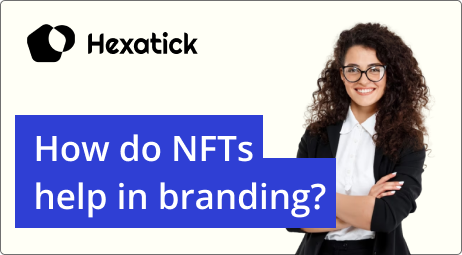
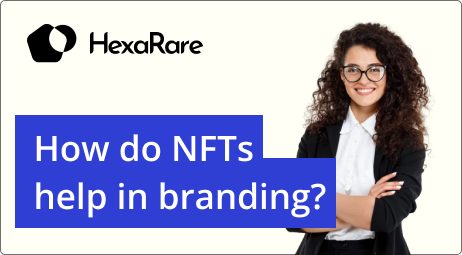
Rebranding Hexatick to Hexarare

Changed region(s): [[0.0606, 0.0824, 0.4545, 0.2471]]

diff --git a/src/components/Pages/UseCases/UseCase.jsx b/src/components/Pages/UseCases/UseCase.jsx
@@ -14,8 +14,6 @@ import BettingProof from "../../../images/Group B- Image 6.png";
 import MusicIntellectualProperty from "../../../images/GroupB-Image8.png";
 import MovieIntellectualProperty from "../../../images/GroupB-Image7.png";
 
-
-
 import { useEffect } from "react";
 
 const UseCase = () => {
@@ -359,7 +357,18 @@ const UseCase = () => {
           <div className="flex flex-col items-center justify-center space-y-5 max-sm:mt-[1rem] max-sm:text-center">
             <h2 className="text-3xl font-body">Movie Intellectual Property</h2>
             <p className="text-md font-poppins max-sm:text-sm">
-            NFTs have the potential to revolutionize the movie industry by providing a new way for artists and platforms to monetize and protect their intellectual property. NFTs can be issued for movie IP, such as limited edition clips, posters, or even a unique version of a film, giving fans an exclusive digital asset to collect and trade.  Using blockchain technology,ensures that the movie IP remains secure and is not subject to piracy or copyright infringement. Furthermore, artists and platforms can receive a share of profits from subsequent sales or licensing of the NFTs, creating new revenue streams and increasing the overall value of the movie IP. Overall NFTs offer a powerful tool for artists and platforms in the movie industry.
+              NFTs have the potential to revolutionize the movie industry by
+              providing a new way for artists and platforms to monetize and
+              protect their intellectual property. NFTs can be issued for movie
+              IP, such as limited edition clips, posters, or even a unique
+              version of a film, giving fans an exclusive digital asset to
+              collect and trade. Using blockchain technology,ensures that the
+              movie IP remains secure and is not subject to piracy or copyright
+              infringement. Furthermore, artists and platforms can receive a
+              share of profits from subsequent sales or licensing of the NFTs,
+              creating new revenue streams and increasing the overall value of
+              the movie IP. Overall NFTs offer a powerful tool for artists and
+              platforms in the movie industry.
             </p>
           </div>
 

diff --git a/src/components/Home/HomeFaq.jsx b/src/components/Home/HomeFaq.jsx
@@ -10,14 +10,14 @@ const HomeFaq = () => {
         <p className="font-inter">Reach out to our team at</p>
         <p className="font-inter underline underline-offset-4 max-sm:flex flex-col">
           {" "}
-          support@hexatick.com
+          support@hexarare.com
         </p>
       </div>
 
       {/* FAQ SECTION */}
       <div className="mt-14 flex flex-col items-center ">
         <FaqBox
-          question="What does your No-Code NFT API platform like Hexatick do?"
+          question="What does your No-Code NFT API platform like Hexarare do?"
           answer="Our platform allows you to easily create and manage your own NFTs without any coding experience. You can mint new tokens, manage ownership and transfer them securely on the blockchain with simple REST APIs that can be implemented with minimal development and knowledge."
         />
         <FaqBox
@@ -26,10 +26,13 @@ const HomeFaq = () => {
         />
         <FaqBox
           question="How can I distribute NFT from my product?"
-          answer="Your brand's NFT are managed by Hexatick Cloud service thus can be managed with simple REST APIs. Brands can trigger Hexatick APIs from within your product according to their business logic."
+          answer="Your brand's NFT are managed by Hexarare
+           Cloud service thus can be managed with simple REST APIs. Brands can trigger Hexarare
+           APIs from within your product according to their business logic."
         />
         <FaqBox
-          question="What kind of APIs is provided Hexatick?"
+          question="What kind of APIs is provided Hexarare
+          ?"
           answer="The basic version of our platform offers three primary API use cases. The first use case is to enable the creation of a new Ethereum wallet for a user. The second use case allows a brand to initiate a new NFT collection. The third use case involves facilitating the distribution of NFTs to user addresses."
         />
         <FaqBox

diff --git a/src/components/Pages/PricingList/Faq.jsx b/src/components/Pages/PricingList/Faq.jsx
@@ -10,14 +10,14 @@ const Faq = () => {
         <p className="font-inter">Reach out to our team at</p>
         <p className="font-inter underline underline-offset-4 max-sm:flex flex-col">
           {" "}
-          support@hexatick.com
+          support@hexarare.com
         </p>
       </div>
 
       {/* FAQ SECTION */}
       <div className="mt-14 flex flex-col items-center ">
         <FaqBox
-          question="What does your No-Code NFT API platform like Hexatick do?"
+          question="What does your No-Code NFT API platform like Hexarare do?"
           answer="Our platform allows you to easily create and manage your own NFTs without any coding experience. You can mint new tokens, manage ownership and transfer them securely on the blockchain with simple REST APIs that can be implemented with minimal development and knowledge."
         />
         <FaqBox
@@ -26,10 +26,10 @@ const Faq = () => {
         />
         <FaqBox
           question="How can I distribute NFT from my product?"
-          answer="Your brand's NFT are managed by Hexatick Cloud service thus can be managed with simple REST APIs. Brands can trigger Hexatick APIs from within your product according to their business logic."
+          answer="Your brand's NFT are managed by Hexarare Cloud service thus can be managed with simple REST APIs. Brands can trigger Hexarare APIs from within your product according to their business logic."
         />
         <FaqBox
-          question="What kind of APIs is provided Hexatick?"
+          question="What kind of APIs is provided Hexarare?"
           answer="The basic version of our platform offers three primary API use cases. The first use case is to enable the creation of a new Ethereum wallet for a user. The second use case allows a brand to initiate a new NFT collection. The third use case involves facilitating the distribution of NFTs to user addresses."
         />
         <FaqBox

diff --git a/src/components/Pages/RequestBeta.jsx b/src/components/Pages/RequestBeta.jsx
@@ -141,7 +141,7 @@ const RequestBeta = () => {
       <div className="bg-white p-6 w-1/2  max-sm:flex max-sm:flex-col max-sm:items-center max-sm:w-full">
         <div className="flex flex-row items-center space-x-3 w-full max-sm:flex max-sm:flex-row max-sm:items-start max-sm:-ml-2">
           <img onClick={() => navigate("/")} src={LogoImage} alt="logo" />
-          <img onClick={() => navigate("/")} src={LogoText} alt="logotext" />
+          <img className="h-5" onClick={() => navigate("/")} src={LogoText} alt="logotext" />
         </div>
         <div className="mt-[2rem] max-sm:items-start max-sm:w-screen max-sm:pl-5 max-sm:pr-5">
           <h1 className="font-bold text-2xl font-poppins">Request For Beta</h1>

diff --git a/src/components/Features/Features.jsx b/src/components/Features/Features.jsx
@@ -6,7 +6,7 @@ const Features = () => {
     <div className="mt-44 content-center max-sm:mt-[4rem] max-sm:p-4">
       <div className=" flex items-center flex-col justify-center max-sm:flex max-sm:flex-col max-sm:items-center max-sm:justify-center">
         <h1 className="text-5xl font-settings max-sm:text-4xl">
-          Why use Hexatick?
+          Why use Hexarare?
         </h1>
         <div className="max-sm:text-center">
           <p className="mt-4 ml-8 font-poppins text-xl max-sm:ml-0 max-sm:text-md max-sm:hidden">

diff --git a/src/components/Header/HeaderLeft.jsx b/src/components/Header/HeaderLeft.jsx
@@ -19,7 +19,7 @@ const HeaderLeft = () => {
       <div className="max-sm:hidden">
         <p className="font-hero text-indigo-600 mt-4 text-lg sub-text max-sm:ml-11">
           Leverage NFTs to transform customer engagement and <br /> establish a
-          powerful community-driven brand presence with <br /> Hexatick's
+          powerful community-driven brand presence with <br /> Hexarare's
           comprehensive NFT management solution.
         </p>
       </div>

diff --git a/src/components/Footer/Footer.jsx b/src/components/Footer/Footer.jsx
@@ -26,7 +26,7 @@ const Footer = () => {
 
       <div className="space-y-4 mt-16 max-sm:text-center max-sm:mt-10">
         <h2 className="font-poppins text-lg font-bold">Get in touch</h2>
-        <p className="font-poppins">contact@hexatick.com</p>
+        <p className="font-poppins">contact@hexarare.com</p>
         <p className="font-poppins">
         WeWork Koramangala <br /> 80 Feet Rd, 1A Block
         </p>

diff --git a/src/components/Form/Form.jsx b/src/components/Form/Form.jsx
@@ -63,7 +63,7 @@ const Form = () => {
                 />
 
                 <span className="text-sm font-poppins mt-5 text-[#35457F]">
-                  I agree that hexatick may contact me at the email address or
+                  I agree that hexarare may contact me at the email address or
                   phone number above.
                 </span>
               </label>

diff --git a/src/components/NavBar/NavBar.jsx b/src/components/NavBar/NavBar.jsx
@@ -23,7 +23,7 @@ const NavBar = () => {
         />
         <img
           onClick={() => navigate("/")}
-          className="mt-1 h-4"
+          className="mt-2 h-4"
           src={LogoText}
           alt="LogoText"
         />
